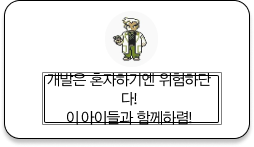
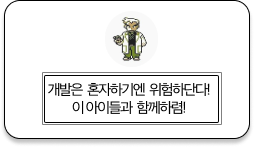
chore: 오박사 이미지 수정, 장고 static파일 추가 마이그레이션

Changed region(s): [[0.1654, 0.4898, 0.8268, 0.8707]]

diff --git a/django/welcome_kit/static/css/profile.css b/django/welcome_kit/static/css/profile.css
@@ -1,0 +1,119 @@
+#window-profile {
+    box-sizing: border-box;
+    width: 100%;
+    display: flex;
+    justify-content: center;
+}
+#profile {
+    box-sizing: border-box;
+    width: 80%;
+    height: 20rem;
+    display: flex;
+    justify-content: space-between;
+    align-items: center;
+    padding: 1.5rem 0;
+}
+#profile-status {
+    background-color: #000000;
+    box-sizing: border-box;
+    height: 100%;
+    width: 40rem;
+    border-radius: 1rem;
+    display: flex;
+    justify-content: space-between;
+    align-items: center;
+    padding: 1rem 2.5rem;
+}
+
+#profile > img {
+    width: 12rem;
+    height: 12rem;
+}
+#name {
+    box-sizing: border-box;
+    height: 60%;
+    width: 50%;
+    display: flex;
+    flex-direction: column;
+    justify-content: space-around;
+}
+#name > p:first-child {
+    color: white;
+    font-size: 2rem;
+}
+#name > p:last-child {
+    color: #ff9e1b;
+    font-size: 2.5rem;
+    font-weight: 500;
+}
+#class {
+    display: flex;
+    justify-content: space-between;
+    align-items: center;
+    flex-wrap: wrap;
+    box-sizing: border-box;
+    width: 50%;
+    height: 100%;
+    padding-left: 1rem;
+}
+.keyword {
+    margin-bottom: 0.5rem;
+    background-color: white;
+    color: #ff9e1b;
+    font-size: 1.3rem;
+    font-weight: 400;
+    height: 2.5rem;
+    width: 7rem;
+    display: flex;
+    justify-content: center;
+    align-items: center;
+    border-radius: 1rem;
+}
+
+#window-content {
+    box-sizing: border-box;
+    width: 100%;
+    display: flex;
+    height: 20rem;
+    padding: 0;
+    justify-content: center;
+}
+
+#recommend-block {
+    box-sizing: border-box;
+    width: 80%;
+    height: 100%;
+    display: flex;
+    justify-content: space-between;
+    align-items: center;
+}
+
+.recommend {
+    box-sizing: border-box;
+    height: 80%;
+    width: 45%;
+    border-radius: 1rem;
+    background-color: rgba(0, 0, 0, 0.6);
+    color: white;
+    padding: 2rem 4rem;
+}
+
+.recommend > p:first-child {
+    font-size: 2rem;
+    margin-bottom: 1rem;
+}
+
+.recommend > p:nth-child(2) {
+    font-size: 1.2rem;
+    color: #ff9e1b;
+    box-sizing: border-box;
+    width: 100%;
+    display: flex;
+    justify-content: space-between;
+    margin-bottom: 1rem;
+}
+
+.recommend > p:last-child {
+    font-size: 1rem;
+    text-align: justify;
+}

diff --git a/django/welcome_kit/static/css/splash.css b/django/welcome_kit/static/css/splash.css
@@ -84,7 +84,7 @@
     align-items: center;
     box-sizing: border-box;
     width: 100%;
-    height: 1.5rem;
+    height: 2rem;
     background-color: rgba(25, 25, 25, 1);
     text-align: center;
 }
@@ -107,9 +107,25 @@
 }
 
 .circle {
-    height: 0.8rem;
-    width: 0.8rem;
-    border-radius: 0.8rem;
+    height: 1rem;
+    width: 1rem;
+    border-radius: 1rem;
+    display: flex;
+    justify-content: center;
+    align-items: center;
+    font-size: 0.5rem;
+}
+.circle > i {
+    visibility: hidden;
+}
+#traffic-light:hover .circle > i {
+    visibility: visible;
+}
+.circle:hover {
+    cursor: default;
+}
+.circle:active {
+    opacity: 0.8;
 }
 
 .circle:first-child {
@@ -125,67 +141,11 @@
 }
 
 /* window-content */
-#window-content {
+#main-content {
     height: 26rem;
     width: 58rem;
     padding: 6rem;
     padding-top: 3rem;
-}
-#bookmark {
-    box-sizing: border-box;
-    width: 100%;
-    height: 8rem;
-    display: flex;
-    flex-direction: column;
-    justify-content: space-between;
-}
-#bookmark > p {
-    color: white;
-    font-size: 1.5rem;
-}
-#bookmark-img {
-    width: 16rem;
-    display: flex;
-    justify-content: space-between;
-}
-#bookmark-img > a > img {
-    height: 4.5rem;
-    width: 4.5rem;
-}
-
-#visit {
-    position: relative;
-    top: 2rem;
-    box-sizing: border-box;
-    width: 100%;
-}
-
-#visit > p {
-    color: white;
-    font-size: 1.5rem;
-    margin-bottom: 2rem;
-}
-#visit-img {
-    display: flex;
-    justify-content: space-between;
-    flex-wrap: wrap;
-}
-
-#visit-img > figure > img {
-    height: 9rem;
-    width: 16rem;
-}
-
-#visit-img > figure {
-    height: 11rem;
-    width: 16rem;
-}
-
-#visit-img > figure > figcaption {
-    color: white;
-    font-size: 0.8rem;
-    position: relative;
-    left: 0.5rem;
 }
 /* footer */
 #footer {

diff --git a/django/welcome_kit/static/css/style.css b/django/welcome_kit/static/css/style.css
@@ -1,7 +1,22 @@
 @import '../css/reset.css';
 @import '../css/splash.css';
-@import url(//db.onlinewebfonts.com/c/67680f2eb947c5cbd58b40961b4a61e9?family=Apple+SD+Gothic+Neo);
-
+@import '../css/profile.css';
+@import '../css/bookmark.css';
+@import url(//db.onlinewebfonts.com/c/5a9f693a1affe1c64c2cf97a146a7986?family=APPLE);
+@font-face {
+    font-family: 'APPLE';
+    src: url('//db.onlinewebfonts.com/t/5a9f693a1affe1c64c2cf97a146a7986.eot');
+    src: url('//db.onlinewebfonts.com/t/5a9f693a1affe1c64c2cf97a146a7986.eot?#iefix')
+            format('embedded-opentype'),
+        url('//db.onlinewebfonts.com/t/5a9f693a1affe1c64c2cf97a146a7986.woff2')
+            format('woff2'),
+        url('//db.onlinewebfonts.com/t/5a9f693a1affe1c64c2cf97a146a7986.woff')
+            format('woff'),
+        url('//db.onlinewebfonts.com/t/5a9f693a1affe1c64c2cf97a146a7986.ttf')
+            format('truetype'),
+        url('//db.onlinewebfonts.com/t/5a9f693a1affe1c64c2cf97a146a7986.svg#APPLE')
+            format('svg');
+}
 body {
     font-family: 'Apple SD Gothic Neo', 'Josefin Sans', sans-serif;
 }

diff --git a/django/welcome_kit/static/css/bookmark.css b/django/welcome_kit/static/css/bookmark.css
@@ -1,0 +1,56 @@
+#bookmark {
+    box-sizing: border-box;
+    width: 100%;
+    height: 8rem;
+    display: flex;
+    flex-direction: column;
+    justify-content: space-between;
+}
+#bookmark > p {
+    color: white;
+    font-size: 1.5rem;
+}
+#bookmark-img {
+    width: 16rem;
+    display: flex;
+    justify-content: space-between;
+}
+#bookmark-img > a > img {
+    height: 4.5rem;
+    width: 4.5rem;
+}
+
+#visit {
+    position: relative;
+    top: 2rem;
+    box-sizing: border-box;
+    width: 100%;
+}
+
+#visit > p {
+    color: white;
+    font-size: 1.5rem;
+    margin-bottom: 2rem;
+}
+#visit-img {
+    display: flex;
+    justify-content: space-between;
+    flex-wrap: wrap;
+}
+
+#visit-img > figure > img {
+    height: 9rem;
+    width: 16rem;
+}
+
+#visit-img > figure {
+    height: 11rem;
+    width: 16rem;
+}
+
+#visit-img > figure > figcaption {
+    color: white;
+    font-size: 0.8rem;
+    position: relative;
+    left: 0.5rem;
+}
